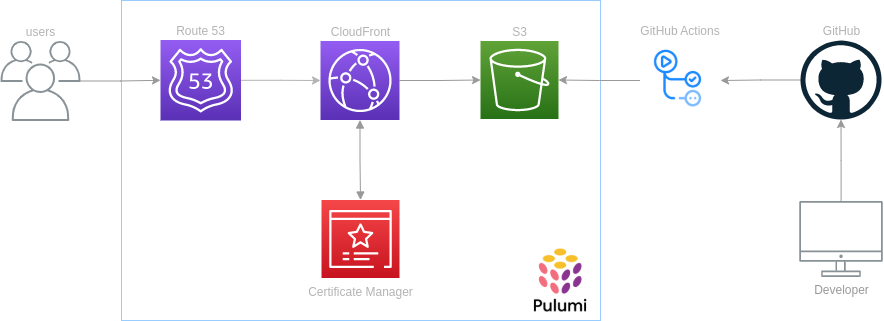
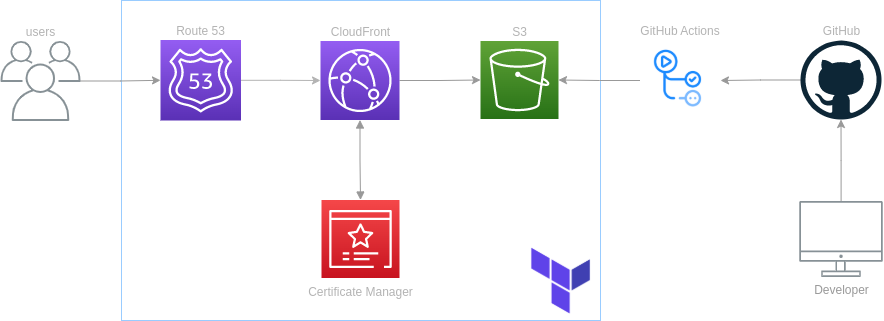
readme update, base terraform and base S3 configuration

Changed region(s): [[0.5803, 0.7788, 0.6719, 0.9969]]

diff --git a/README.md b/README.md
@@ -1,14 +1,15 @@
 # Personal Site
 A personal site to hold information about myself and blog posts
 
-## Creating a automated serverless website using AWS, GitHub and Pullumi.
+## Creating a automated serverless website using AWS, GitHub and Terraform.
 I wanted to create a personal website where I could display information about myself and post technical writing surrounding technologies or ideas I am interested in. For me the site had to be serverless, easy to manage posts and have fully automated deployments. The advantage of this is the less time I have to spend building the website or managing servers the more time I can spend on developing my engineering skills or studying for various certifications. This first led me to `Hugo`. A lightweight static site generator written in Go that allows me to control the site through `markdown`  and a `configuration.toml` file! On build Hugo will publish an artifact to `public/` in your site root directory. This is the contents for your static site and where your `index.html` will be placed. In fact, it's where you are reading this post from now.
 
 So now I have a framework. I've met some of my requirements outlined in my introduction. I still needed a serverless platform to deploy to. Amazon S3 meets the requirement in this scenario, whilst it is traditionally only used for object level cloud storage it also has a Static website hosting setting for your S3 bucket. We can store our artifact produced by Hugo in a bucket and have S3 serve the contents. This works because the contents of this bucket are static web content. Anything that utilizes server-side processing such as PHP or Python would not be usable with this feature. 
 
 For deployments I can use the same platform where I am storing the source code for this website, GitHub. I can use the actions feature of GitHub to create automations that will run our Hugo build and then push our contents to our S3 Bucket. 
 
-During our deployment I also want to out our infrastructure then deploy our content to the bucket. For this I opted for Pulumi, an infrastructure as code tool to manage my resources in AWS. This tool will allow us to define our infrastructure in Python.
+During our deployment I also want to deploy our infrastructure then deploy our content to the bucket. For this I opted for Terraform, a widley popular infrastructure as code tool to manage my resources in AWS via code. This give us the advantage of having the configuration of our entire infrastucutre sotred in a version controll system. Then from this we can execute automations to deploy our configurations programitaclly. Also giving us the advantage of rebuilding the entire configuration at any point, itterate on changes faster and taking advantage of terraforms build in idempotency. 
+
 ![arch](images/arch.png)
 
 ## Installing and configuring Hugo
@@ -24,18 +25,21 @@ As you can see from the minimal setup I have the ability to post content to my s
 
 ## Building out the infrastrcuture
 
-### Getting Started with pulumi
-So after installing [Pulumi](https://www.pulumi.com/docs/get-started/install/). I needed to start my project
-```bash
-pulumi new personal-site
-```
+### Getting Started with Terraform
 
+#### What is the state file
+
+#### Providers
+
+#### The plan and apply cycle
+
+#### Idempotency
 
 ### Building the S3 Bucket
 
 ### Building out the CloudFront Distrobution
 
-### Working with Certificare Manager
+### Working with Certificate Manager
 
 ### Setting up Route 53
 
